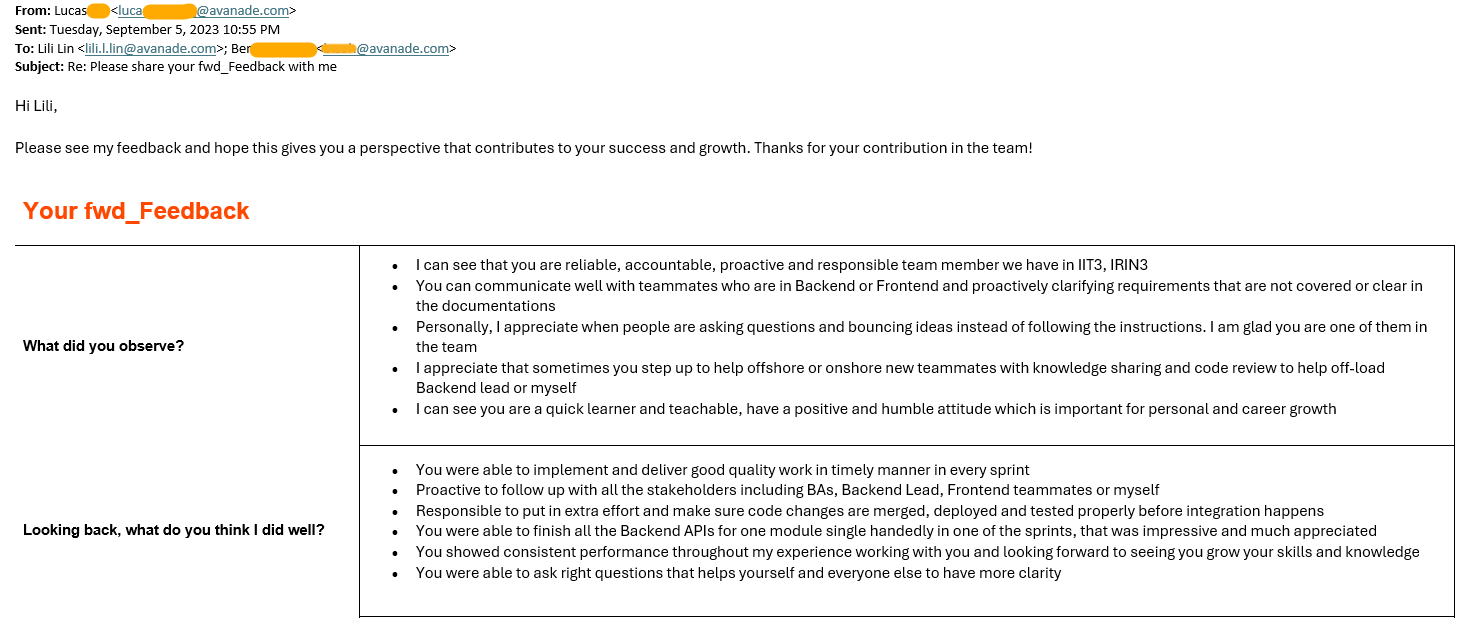
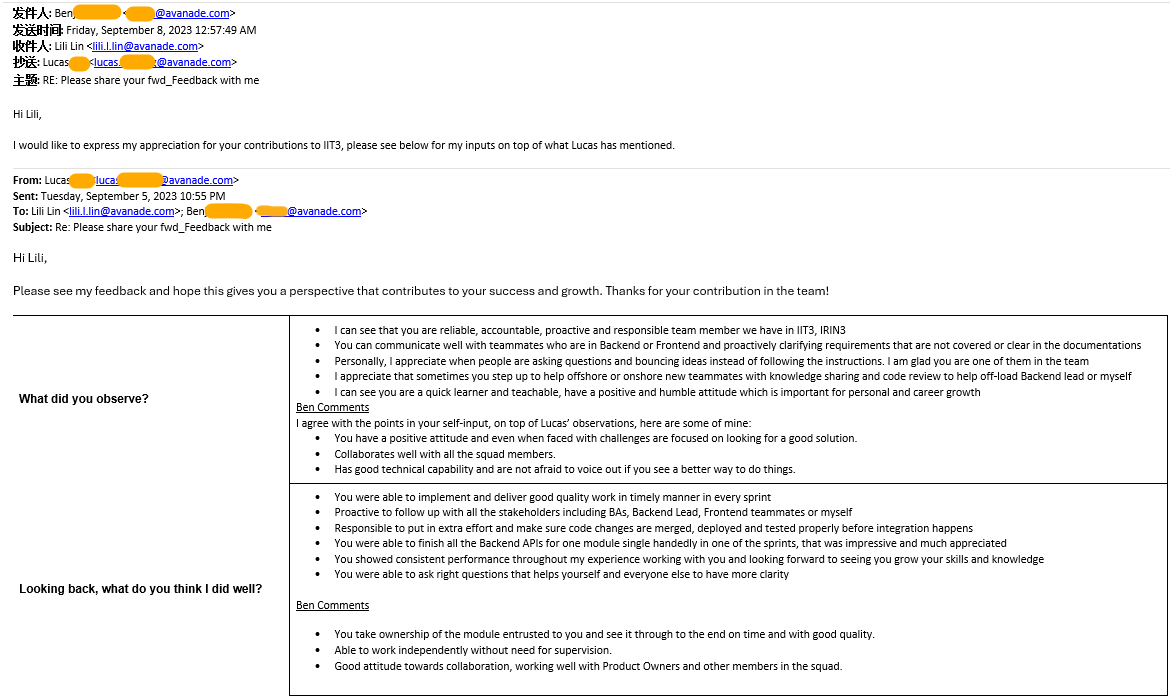
udpate testimonial feedback 4

diff --git a/testimoninal.html b/testimoninal.html
@@ -106,7 +106,7 @@
                         </div>
                       </div>
                       <div class="carousel-item">
-                        <img src="img/Feedback/Feedback4.1.png" class="d-block w-100" alt="...">
+                        <img src="img/Feedback/Feedback4.png" class="d-block w-100" alt="...">
                         <div class="carousel-title">
                           Feedback from Dev Lead and Manager - 2023
                         </div>
